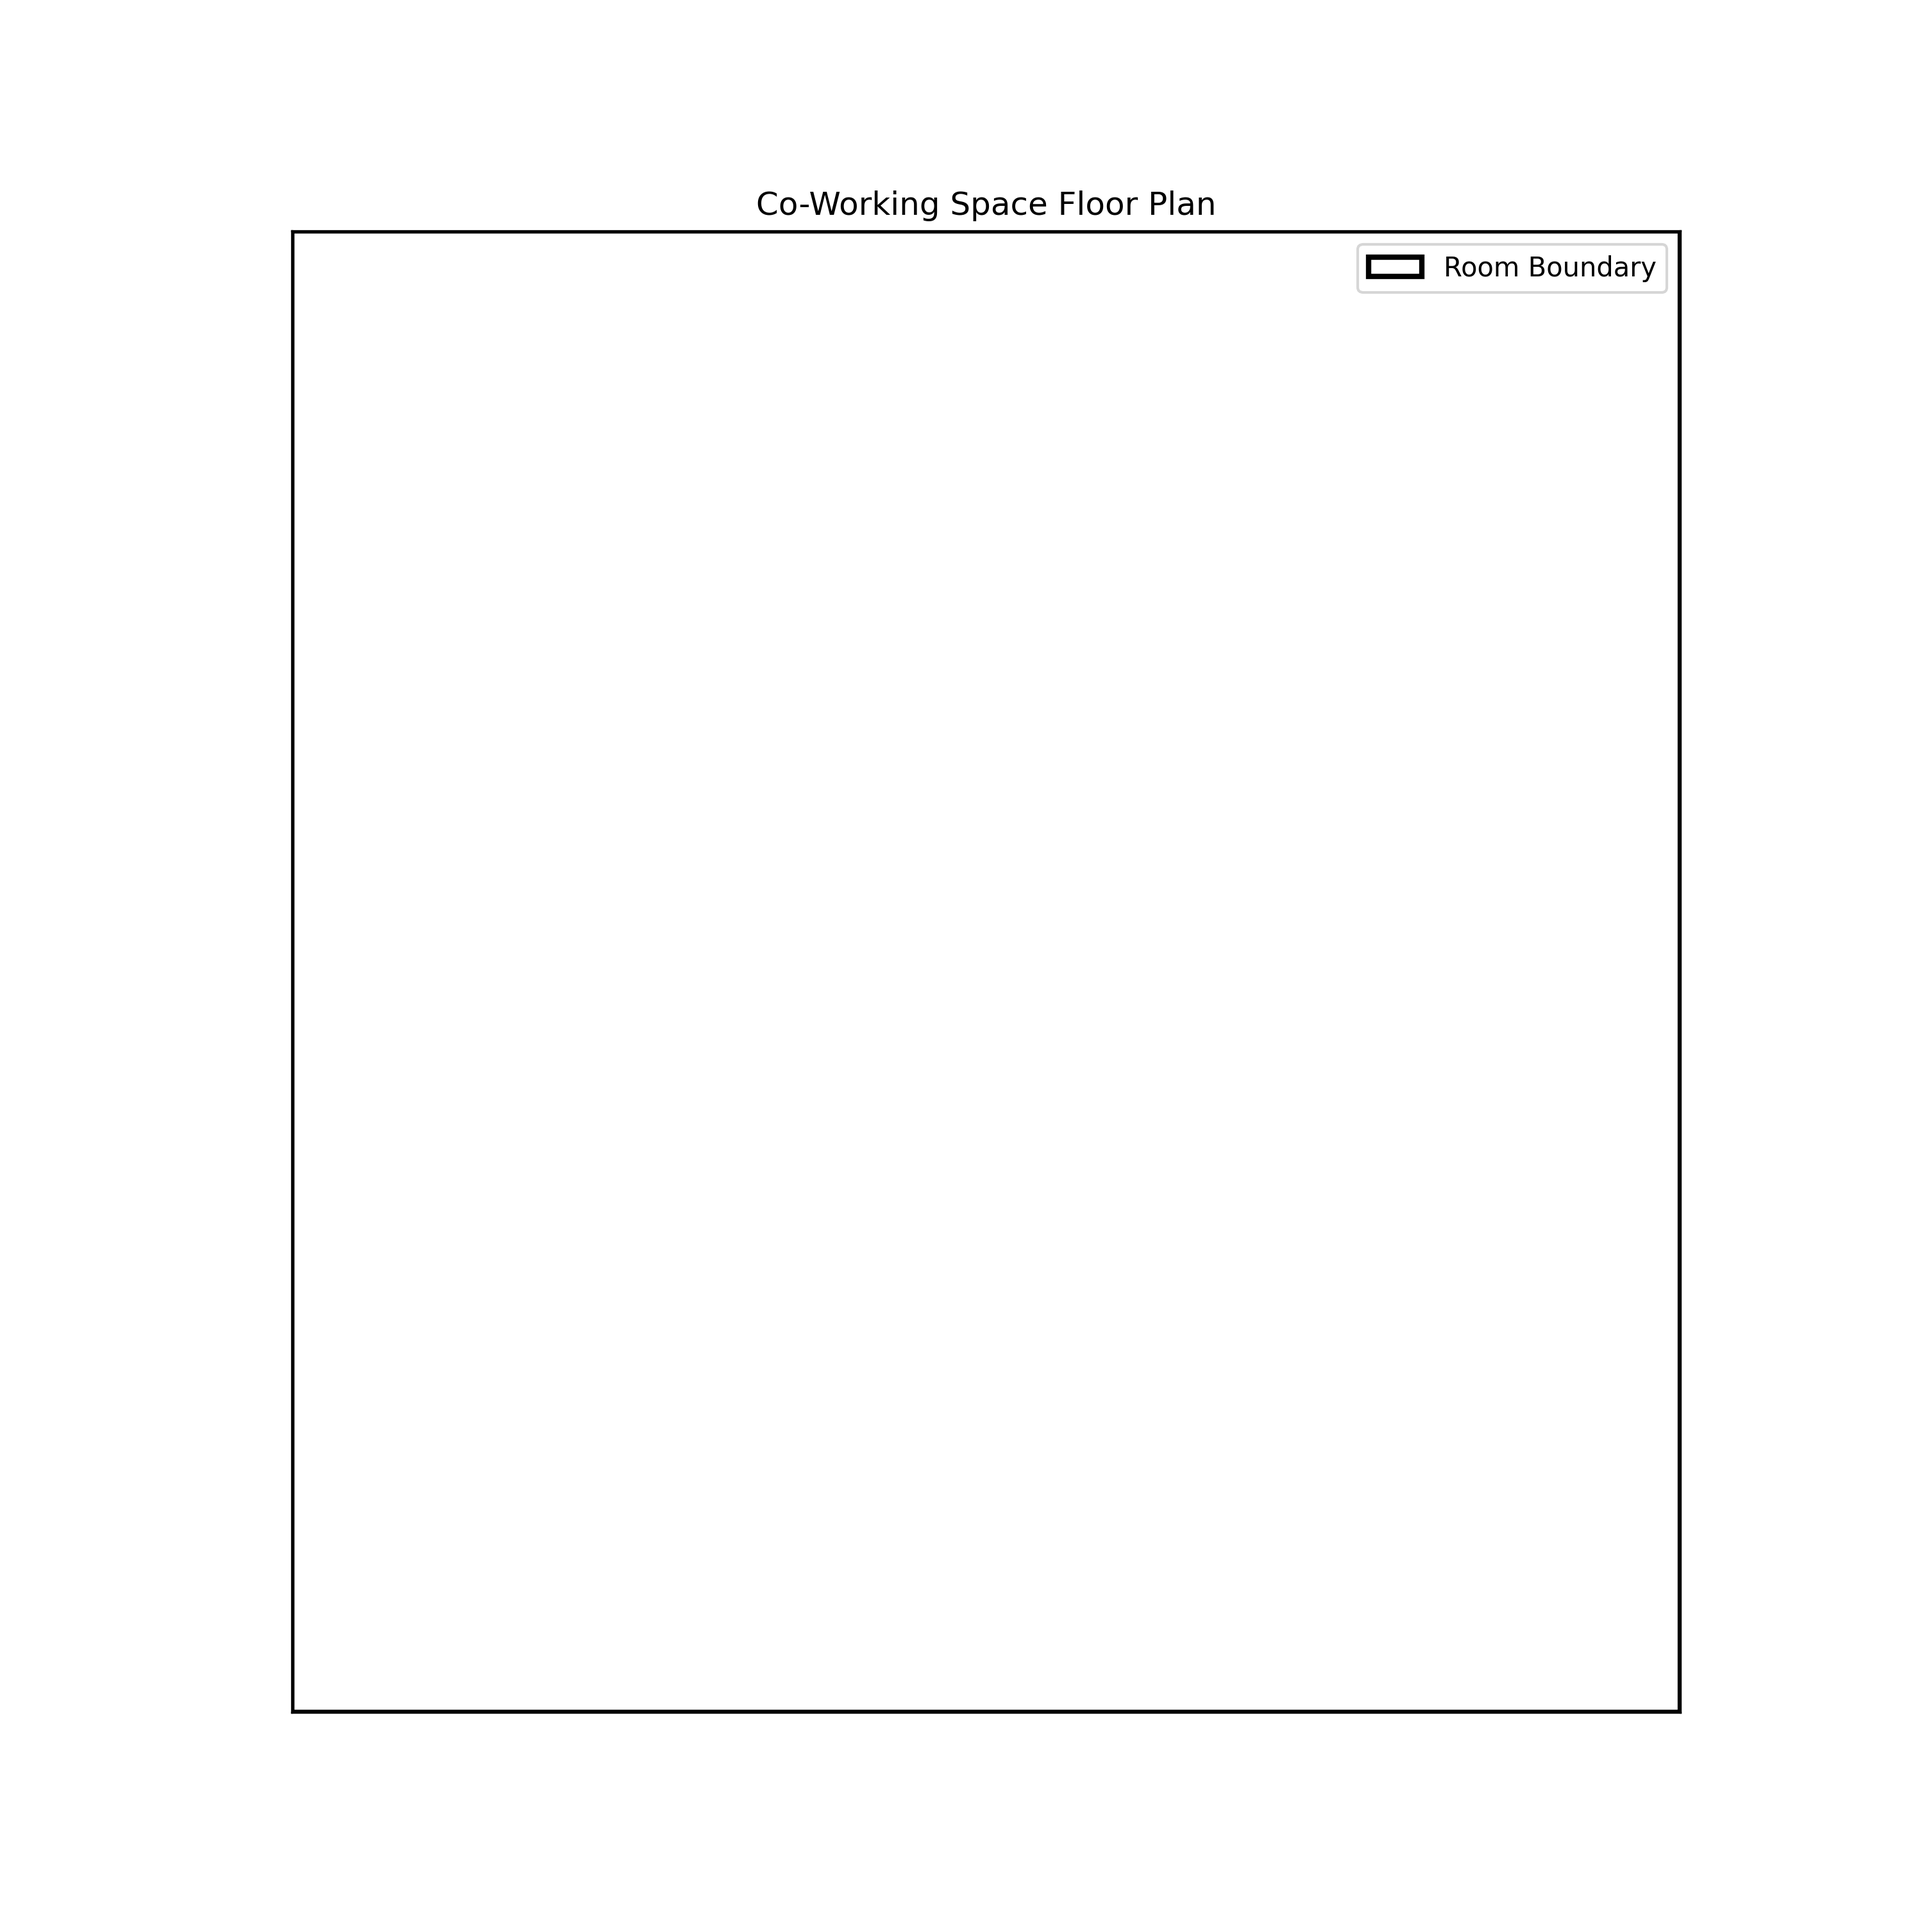
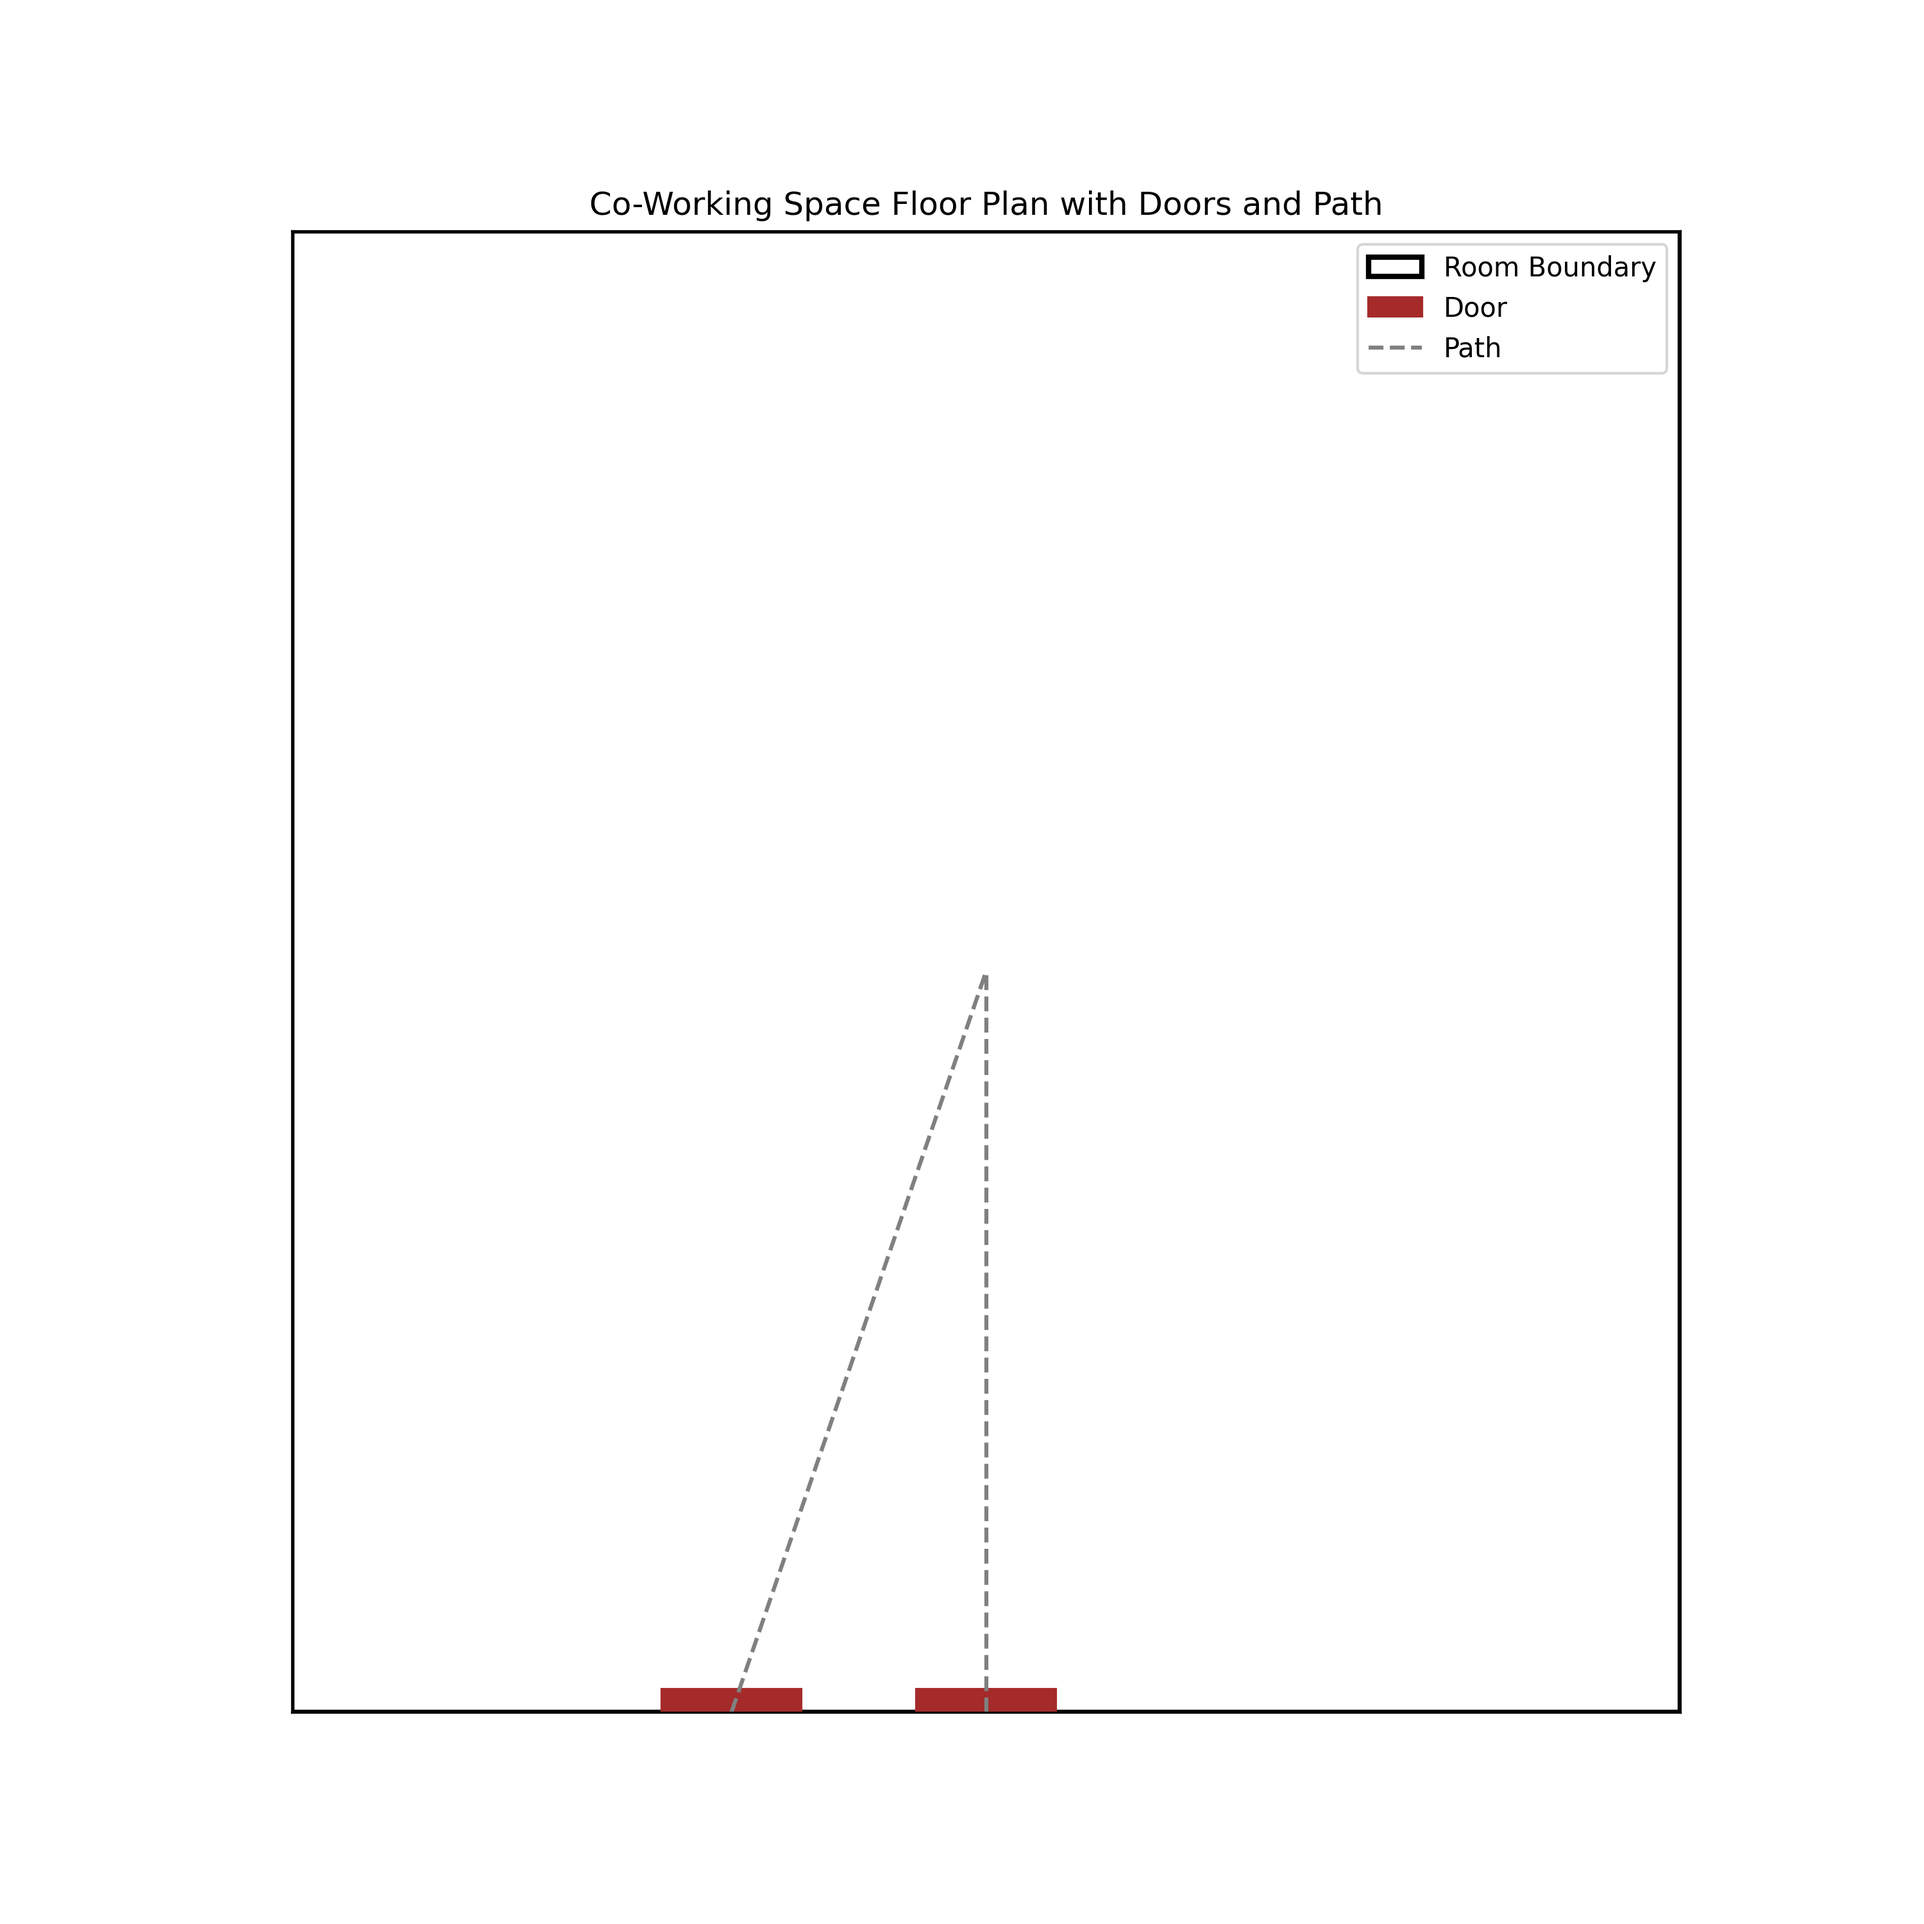
door planning wrong

diff --git a/sample.py b/sample.py
@@ -10,14 +10,27 @@ def create_floor_plan(save_path="coworking_space_floor_plan.png"):
 
     # Draw the outer walls
     ax.add_patch(patches.Rectangle((0, 0), width, height, fill=None, edgecolor='black', linewidth=2, label="Room Boundary"))
-
+    
+    # Add doors
+    door_width = 3  # Door width in feet
+    
+    # Door on the left side, 8 feet from the left and extending to the bottom
+    ax.add_patch(patches.Rectangle((8, 0), door_width, 0.5, fill=True, color='brown', label="Door"))
+    
+    # Bottom door centered
+    ax.add_patch(patches.Rectangle((width/2 - door_width/2, 0), door_width, 0.5, fill=True, color='brown'))
+    
+    # Draw path for doors
+    ax.plot([8 + door_width/2, width/2], [0, height/2], linestyle='dashed', color='gray', label="Path")
+    ax.plot([width/2, width/2], [0, height/2], linestyle='dashed', color='gray')
+    
     # Formatting
     plt.xlim(0, width)
     plt.ylim(0, height)
     plt.xticks([])
     plt.yticks([])
     plt.gca().set_aspect('equal', adjustable='box')
-    plt.title("Co-Working Space Floor Plan")
+    plt.title("Co-Working Space Floor Plan with Doors and Path")
     plt.legend()
     
     # Save the image
